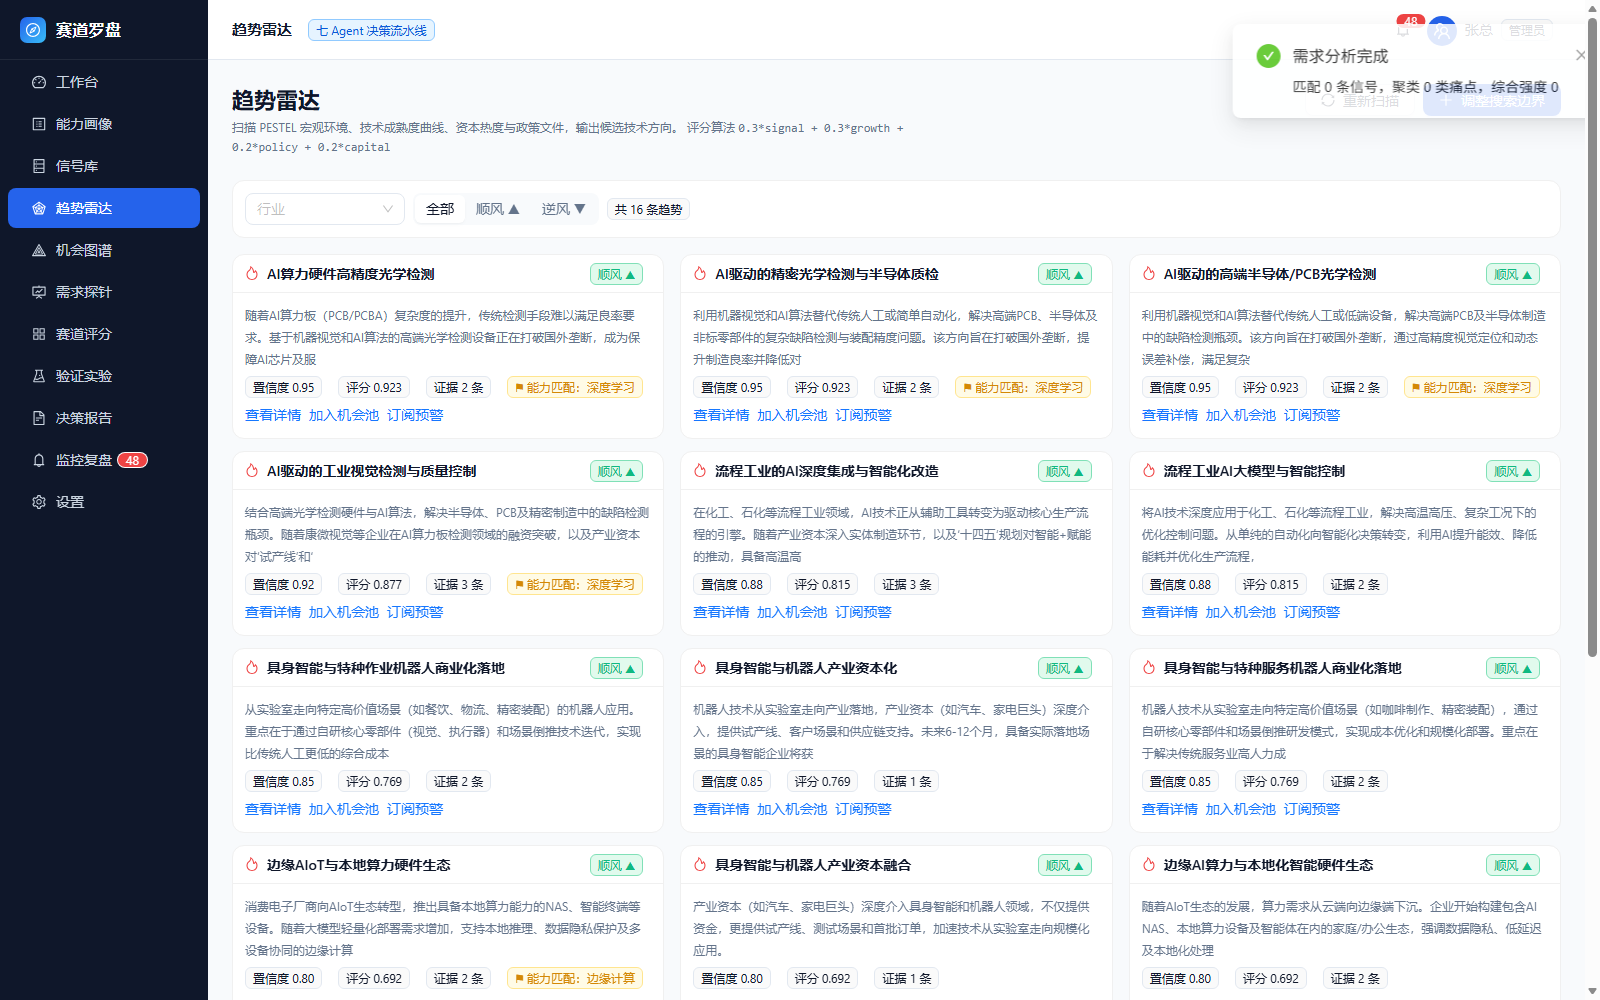
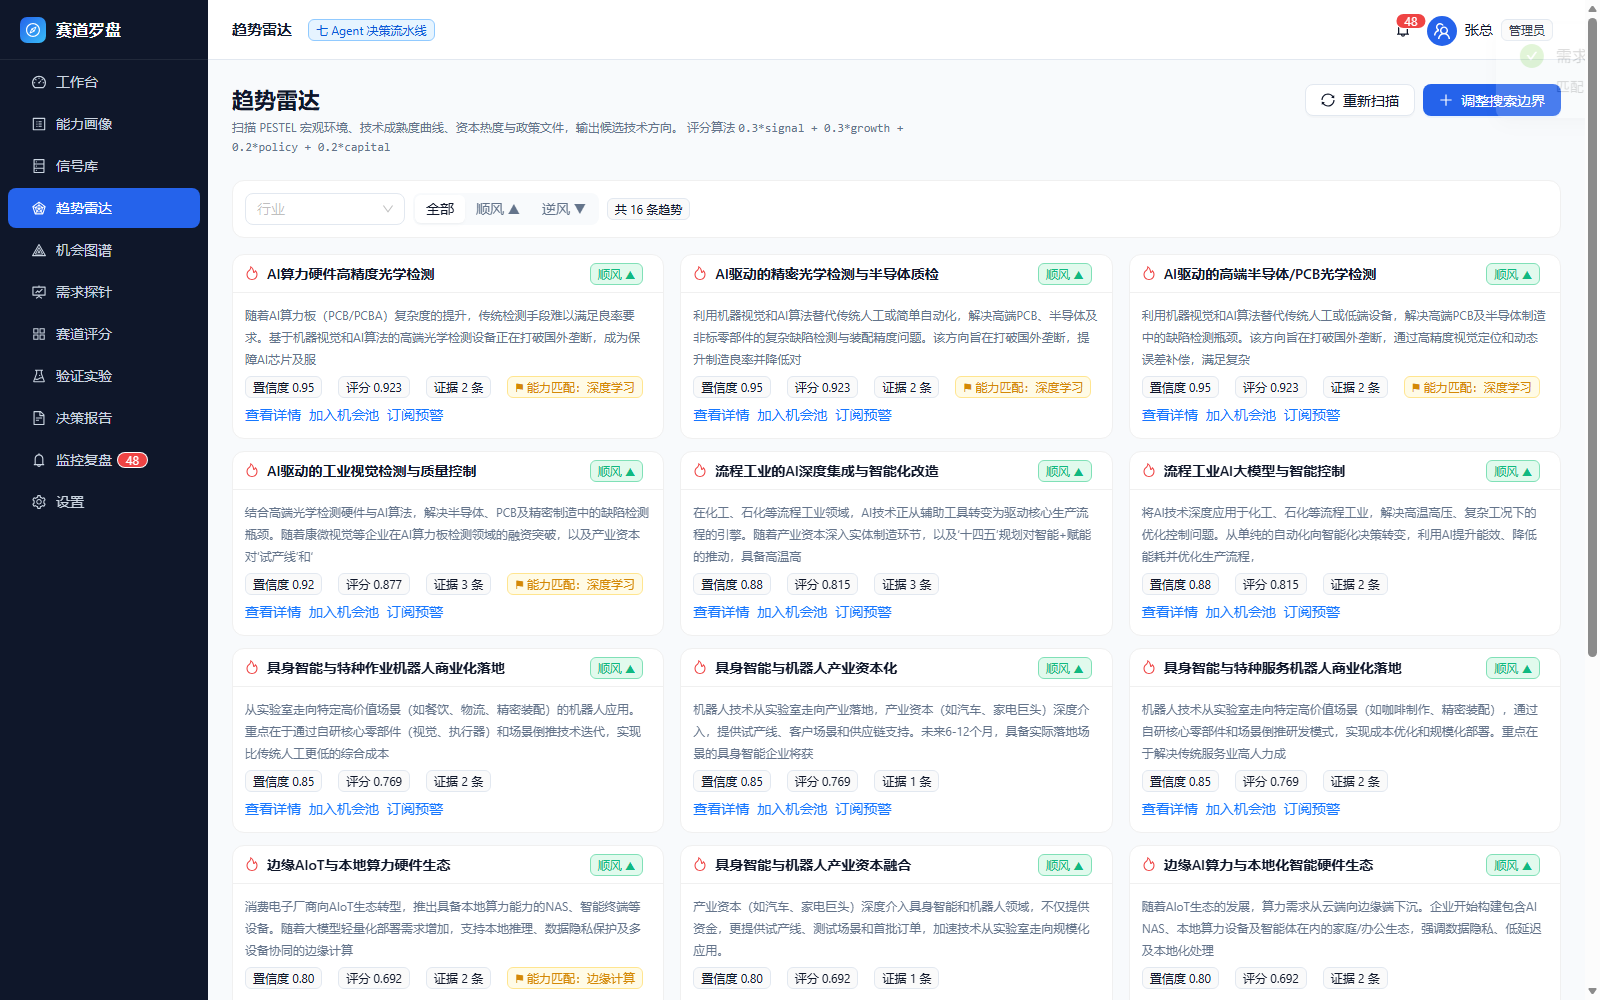
fix(reports): 决策报告能在线看全文（原先每份历史报告都显示「无正文内容」）
用户问「决策报告不能在线看吗？」—— 是缺陷。

根因：GET /reports（列表）只回元信息，**不含 content**；而前端点「查看」是
setPreview(列表项) 直接拿去渲染 ⇒ 除「刚生成的那份」（POST 响应带 sections_detail）外，
**所有历史报告都显示「该报告无正文内容」**。空态文案看起来就像功能缺失。
而 GET /reports/{id}（详情）本来就返回 9 段正文，客户端的 reportApi.detail() 也早就有 —— 只是没人调用。

改动
- Reports.tsx：
  · openReport()：有正文直接用（刚生成那份），否则拉 detail（带 loading）
  · 新增 openOnline()：新标签页打开排版版 HTML；没有导出产物就先导 HTML 再开
  · 新增 staticUrlOf()：导出接口返回的 file:///D:/... 一律转成 /static/reports/<文件名>
  · 列表动作重排：查看全文 / 在线打开 / 导出 ▾（HTML·Markdown·PPT·Word·JSON 收进下拉）
  · 预览区头部加「在线打开」；导 HTML 顺手新开标签页，PPT/Word 只提示文件已生成
- Demand.tsx：开跑即置 sourcesTouched —— 修掉一个真竞态：
  首屏「默认数据源自动补全」若在 /signals 返回前用户已点开始分析，
  补全随后把 5 类改成 8 类，刚出的结果立刻被判定「检索条件已改动」

验证
- tsc --noEmit / vite build 通过
- 详情接口实测 9 个章节（执行摘要 191 字 / 赛道定义与市场空间 505 字 / 需求验证 446 字）
- /static/reports/<文件名>.html → HTTP 200
- UI 冒烟 42 → **46/46**：点「查看全文」能读到正文（不再出现「该报告无正文内容」）、
  9 段结构命中 9/9、在线打开地址 200
- 顺带修两处断言竞态：等「存量计数」而不是等标签数量；章节判定改用模板固定章节名

文档
- docs/决策报告在线查看修复.md（新增）
- docs/产品使用手册.md P09 补「怎么看报告」三动作
- docs/遗留项台账.md「近期已解决」补一行

Changed region(s): [[0.7812, 0.0, 1.0, 0.124]]

diff --git a/trackcompass/frontend/src/pages/Reports.tsx b/trackcompass/frontend/src/pages/Reports.tsx
@@ -6,6 +6,7 @@ import {
   Col,
   Descriptions,
   Divider,
+  Dropdown,
   Empty,
   List,
   Row,
@@ -16,7 +17,13 @@ import {
   Typography,
   message,
 } from 'antd'
-import { DownloadOutlined, FileTextOutlined, PlusOutlined } from '@ant-design/icons'
+import {
+  DownloadOutlined,
+  DownOutlined,
+  FileTextOutlined,
+  LinkOutlined,
+  PlusOutlined,
+} from '@ant-design/icons'
 import ReactMarkdownLite from '../components/MarkdownLite'
 import PageHead from '../components/PageHead'
 import { EmptyState } from '../components/widgets'
@@ -24,6 +31,23 @@ import { opportunityApi, reportApi } from '../api/client'
 import { useAsync } from '../hooks/useAuth'
 import { runTask, useTask, useTaskVersion } from '../api/taskStore'
 import type { Report } from '../api/types'
+
+/**
+ * 把「导出产物」的路径/URI 换成**同端口可访问的静态地址**。
+ *
+ * 导出接口返回的 `url` 是服务端本地的 `file:///D:/...`（浏览器打不开），
+ * 真正的入口是后端挂载的 `/static/reports/<文件名>`（`main.py` 里 mount）。
+ */
+function staticUrlOf(fileUrlOrPath?: string | null): string | null {
+  if (!fileUrlOrPath) return null
+  const base = fileUrlOrPath.split(/[\\/]/).pop()
+  if (!base) return null
+  try {
+    return `/static/reports/${encodeURIComponent(decodeURIComponent(base))}`
+  } catch {
+    return `/static/reports/${encodeURIComponent(base)}`
+  }
+}
 
 /** P09 决策报告（《原型设计》§5.9） */
 /** 报告生成的响应类型 —— 从客户端推导，避免手写重复的下游契约 */
@@ -34,6 +58,8 @@ export default function Reports() {
   const [template, setTemplate] = useState('investment_memo')
   const [format, setFormat] = useState('markdown')
   const [preview, setPreview] = useState<Report | null>(null)
+  /** 取正文时的加载态（列表接口不带 content，点「查看」要再拉一次详情） */
+  const [opening, setOpening] = useState(false)
   /** 报告生成跑在应用级任务注册表里：文档生成要几秒，用户不必钉在页面上等 */
   const generateTask = useTask<GeneratedReport>('reports:generate')
   const generating = generateTask?.status === 'running'
@@ -80,6 +106,47 @@ export default function Reports() {
     // eslint-disable-next-line react-hooks/exhaustive-deps
   }, [generateTask?.finishedAt, generateTask?.status])
 
+  /**
+   * 点「查看」看正文。
+   *
+   * ⚠ 列表接口**不返回 `content`**（只有元信息），因此不能直接把列表项塞进预览区 ——
+   * 之前就是这么写的，结果每份历史报告都显示「该报告无正文内容」，
+   * 看起来像「不能在线看」。正文要靠详情接口 `GET /reports/{id}` 单独取。
+   * 刚生成的那份已经带正文（POST 响应里有 `sections_detail`），直接用，省一次请求。
+   */
+  const openReport = async (r: Report) => {
+    if (r.content?.sections?.length) {
+      setPreview(r)
+      return
+    }
+    setOpening(true)
+    try {
+      setPreview(await reportApi.detail(r.id))
+    } catch {
+      message.error('报告正文加载失败，请重试')
+    } finally {
+      setOpening(false)
+    }
+  }
+
+  /** 在线打开（浏览器新标签页看排版版）：有导出产物就直接开，没有就先导 HTML。 */
+  const openOnline = async (report: Report) => {
+    const existing = staticUrlOf(report.download_url)
+    if (existing) {
+      window.open(existing, '_blank')
+      return
+    }
+    const res = await reportApi.exportAs(report.id, 'html')
+    if (res.error) {
+      message.warning(res.error)
+      return
+    }
+    const url = staticUrlOf(res.path) ?? staticUrlOf(res.url)
+    if (url) window.open(url, '_blank')
+    else message.warning('导出成功，但未拿到可访问地址')
+    await refresh()
+  }
+
   const exportAs = async (report: Report, fmt: string) => {
     const res = await reportApi.exportAs(report.id, fmt)
     if (res.error) {
@@ -87,8 +154,12 @@ export default function Reports() {
       return
     }
     message.success(`已导出 ${res.format.toUpperCase()}`)
-    if (res.path) {
-      window.open(`/static/reports/${res.path.split(/[\\/]/).pop()}`, '_blank')
+    // 网页类格式顺手打开；PPT / Word 属于「下载后编辑」，不弹窗口
+    if (fmt === 'html') {
+      const url = staticUrlOf(res.path) ?? staticUrlOf(res.url)
+      if (url) window.open(url, '_blank')
+    } else if (res.path) {
+      message.info(`文件已生成：${res.path.split(/[\\/]/).pop()}`)
     }
     await refresh()
   }
@@ -154,15 +225,29 @@ export default function Reports() {
                 renderItem={(r) => (
                   <List.Item
                     actions={[
-                      <a key="v" onClick={() => setPreview(r)}>
-                        查看
+                      <a key="v" onClick={() => openReport(r)}>
+                        查看全文
                       </a>,
-                      <a key="p" onClick={() => exportAs(r, 'pptx')}>
-                        导出 PPT
+                      <a key="o" onClick={() => openOnline(r)}>
+                        在线打开
                       </a>,
-                      <a key="w" onClick={() => exportAs(r, 'docx')}>
-                        导出 Word
-                      </a>,
+                      <Dropdown
+                        key="e"
+                        menu={{
+                          items: [
+                            { key: 'html', label: '导出 HTML（可在线打开）' },
+                            { key: 'markdown', label: '导出 Markdown' },
+                            { key: 'pptx', label: '导出 PPT' },
+                            { key: 'docx', label: '导出 Word' },
+                            { key: 'json', label: '导出 JSON' },
+                          ],
+                          onClick: ({ key }) => exportAs(r, key),
+                        }}
+                      >
+                        <a>
+                          导出 <DownOutlined style={{ fontSize: 10 }} />
+                        </a>
+                      </Dropdown>,
                     ]}
                   >
                     <List.Item.Meta
@@ -209,7 +294,7 @@ export default function Reports() {
         </Col>
 
         <Col xs={24} lg={14}>
-          <Spin spinning={generating}>
+          <Spin spinning={generating || opening}>
             {preview ? (
               <Card
                 title={preview.title}
@@ -220,6 +305,15 @@ export default function Reports() {
                       {preview.version}
                     </Tag>
                     <Tag className="tc-tag-soft">{preview.evidence_count} 条证据</Tag>
+                    <Button
+                      size="small"
+                      type="primary"
+                      ghost
+                      icon={<LinkOutlined />}
+                      onClick={() => openOnline(preview)}
+                    >
+                      在线打开
+                    </Button>
                     <Button
                       size="small"
                       icon={<DownloadOutlined />}

diff --git a/trackcompass/frontend/src/pages/Demand.tsx b/trackcompass/frontend/src/pages/Demand.tsx
@@ -153,6 +153,10 @@ export default function Demand() {
    * 用户随时可以切走，跑完会弹全局通知，回到本页自动认领结果。
    */
   const run = async () => {
+    // 一旦开始跑，就当成「用户已确定数据源」：
+    // 否则「首屏自动补全默认数据源」可能在请求返回后**把条件改掉**，
+    // 让刚出的结果立刻变成「条件已改动」的过期结果。
+    sourcesTouched.current = true
     setProgress(10)
     await runTask<DemandProbe>(
       'demand:probe',

diff --git a/trackcompass/docs/决策报告在线查看修复.md b/trackcompass/docs/决策报告在线查看修复.md
@@ -1,0 +1,79 @@
+# 决策报告「不能在线看」修复
+
+> **触发**：用户 2026-09-16 ——「决策报告不能在线看吗？」
+> **结论**：是缺陷，已修。列表接口**不返回正文**，而前端把列表项直接塞进预览区
+> ⇒ 每份历史报告都显示「该报告无正文内容」。已改为点「查看全文」时单独拉详情，
+> 并补上「在线打开」（新标签页看排版版 HTML）。
+> **改动面**：前端 1 个文件 + 冒烟脚本；**零后端改动**（详情接口本来就有正文，只是没人调）。
+
+---
+
+## 一、现象与根因
+
+| 环节 | 实际情况 |
+| --- | --- |
+| 用户操作 | 在「报告列表」点**查看** |
+| 前端原实现 | `onClick={() => setPreview(r)}` —— 直接把**列表项**当预览数据 |
+| 列表接口 `GET /reports` | 只回元信息（title/version/format/evidence_count/page_count/created_at），**不含 `content`** |
+| 渲染分支 | `preview.content?.sections?.length ? 章节渲染 : <Empty description="该报告无正文内容" />` |
+| 结果 | 除「刚生成的那份」（POST 响应里带 `sections_detail`）之外，**所有历史报告都显示「该报告无正文内容」** |
+
+另外发现一个隐患：导出接口返回的 `url` 是服务端本地路径 `file:///D:/...`，
+**浏览器打不开**；真正的入口是后端挂载的 `/static/reports/<文件名>`
+（前端原先把 `path` 取 basename 拼静态地址 —— 这条其实是对的，但 `url` 字段没人用，
+容易误导后来者直接 `window.open(res.url)`）。
+
+---
+
+## 二、修法
+
+1. **「查看全文」补一次详情请求**：`GET /reports/{id}` 本来就返回 `content`（含 9 段 markdown 与引用），
+   前端 `reportApi.detail()` 也早就在客户端里 —— **只是没人调用**。
+   - 刚生成的那份已带正文 ⇒ 直接用，省一次请求；
+   - 历史报告 ⇒ 拉详情，期间标题区 loading。
+2. **新增「在线打开」**：新标签页打开排版版 HTML。
+   - 有导出产物 ⇒ 直接开 `/static/reports/<文件名>`；
+   - 没导出过 ⇒ 先导 HTML 再开（导出接口返回值里的 `file://` URI 一律经
+     `staticUrlOf()` 转成同端口静态地址）。
+3. **列表动作重排**：`查看全文` / `在线打开` / `导出 ▾`（HTML·Markdown·PPT·Word·JSON 收进下拉，
+   避免一行四个链接把列表撑乱）。
+4. **预览区头部**加「在线打开」（主按钮）+ 保留 导出 PPT / Word。
+5. **导出行为收敛**：导 HTML 顺手在新标签页打开；PPT/Word 属于「下载后编辑」，只提示文件已生成。
+
+---
+
+## 三、验证（实测）
+
+| 项 | 结果 |
+| --- | --- |
+| 详情接口 | `GET /reports/{id}` → **9 个章节**，含 markdown 与引用（实测：执行摘要 191 字 / 赛道定义与市场空间 505 字 / 需求验证 446 字） |
+| 静态产物 | `/static/reports/<文件名>.html` → **HTTP 200** |
+| UI（真实 Chromium） | 见下 |
+
+```
+✅ 报告列表已渲染（10 份报告）
+✅ ★ 点「查看全文」能在线看到报告正文（正文含「执行摘要」＝ true，且不再出现「该报告无正文内容」）
+✅ 报告按 9 段结构渲染（命中 9/9）
+✅ ★ 「在线打开」的静态地址可访问（HTTP 200）
+```
+
+UI 冒烟整体 **46/46**（在原有 42 项上新增 4 项报告场景）。
+截图留档：`docs/决策报告-在线查看-验证.png`。
+
+### 顺带修掉的一个真竞态（冒烟暴露）
+
+首屏「默认数据源自动补全」与用户点击之间会打架：若用户在 `/signals` 返回**之前**点了「开始分析」，
+补全逻辑随后把数据源从 5 类改成 8 类 ⇒ 刚出的结果立刻被判定为「检索条件已改动」。
+现在**一开跑就视为用户已确定数据源**，补全逻辑不再改动条件。
+（这条是冒烟偶发假失败牵出来的 —— 断言不稳有时真是产品问题，值得追。）
+
+---
+
+## 四、改动清单
+
+| 文件 | 改动 |
+| --- | --- |
+| `frontend/src/pages/Reports.tsx` | 新增 `staticUrlOf()`；`openReport()`（补详情请求）、`openOnline()`；列表动作改 `查看全文 / 在线打开 / 导出 ▾`；预览区加「在线打开」；导出后按格式决定是否新开标签页 |
+| `frontend/src/pages/Demand.tsx` | 开跑即置 `sourcesTouched`（防默认补全改动已开跑的条件） |
+| `scripts/ui_smoke_persist.mjs` | 新增报告场景 4 项；修掉两处断言竞态（等「存量计数」而不是等标签数量；章节判定改用模板固定章节名） |
+| `docs/产品使用手册.md` | P09 补「怎么看报告」三动作说明 |

diff --git a/.workbuddy/memory/2026-09-16.md b/.workbuddy/memory/2026-09-16.md
@@ -495,3 +495,42 @@ Step 当前步每次弹回第 1 步，一并修掉。
 
 **产出**：报告 §1.5 第三例；台账「已解决」补一行 + L-16 加「先问状态存在哪」的排查口径；
 手册 P07 补说明；截图 `docs/赛道评分-会话态保持-验证.png`
+
+---
+
+## 2026-09-16 17:00 ｜ 决策报告「不能在线看」修复
+
+**用户需求**：「决策报告不能在线看吗？」
+
+### 根因（列表接口不带正文）
+
+- `GET /reports`（列表）只回元信息，**不含 `content`**；而前端点「查看」是
+  `setPreview(r)` 直接拿**列表项**渲染 ⇒ 除「刚生成的那份」（POST 响应带 `sections_detail`）外，
+  **所有历史报告都显示「该报告无正文内容」** —— 空态文案看起来就像功能缺失
+- `GET /reports/{id}`（详情）**本来就返回 9 段正文**，客户端的 `reportApi.detail()` 也早就有，
+  **只是没人调用**
+- 另一个隐患：导出接口返回的 `url` 是 `file:///D:/...`（浏览器打不开），
+  真正的入口是后端 mount 的 `/static/reports/<文件名>`（实测 200）
+
+### 修法（前端 1 个文件，零后端改动）
+
+- 「查看全文」：有正文直接用；没有就拉 detail（带 loading）
+- 新增「在线打开」：有导出产物直接开静态地址；没有就先导 HTML 再开
+- 列表动作重排为 `查看全文 / 在线打开 / 导出 ▾`（HTML·Markdown·PPT·Word·JSON 收进下拉）
+- 导出行为收敛：HTML 顺手新开标签页，PPT/Word 只提示文件已生成
+
+### 顺带修掉一个真竞态（冒烟牵出来的）
+
+首屏「默认数据源自动补全」与用户点击打架：若在 `/signals` 返回**前**就点了「开始分析」，
+补全逻辑随后把 5 类改成 8 类 ⇒ 刚出的结果立刻被判定「检索条件已改动」。
+现在**一开跑即视为用户已确定数据源**。
+⇒ 教训：**冒烟偶发假失败，有时真是产品问题**，值得追下去而不是简单重跑。
+
+### 验证
+
+UI 冒烟 42 → **46/46**。新增：查看全文能读到正文（不再出现「该报告无正文内容」）、
+9 段结构命中 9/9、在线打开的静态地址 HTTP 200。截图 `docs/决策报告-在线查看-验证.png`。
+另修两处断言竞态：等「存量计数」而不是等标签数量；章节判定改用模板固定章节名。
+
+**新增约定 44**（列表接口只回元信息 → 详情必须走 detail）与 **45**（对外文件地址不能是 file://）。
+**产出**：`docs/决策报告在线查看修复.md`；手册 P09 补「怎么看报告」。

diff --git a/.workbuddy/memory/MEMORY.md b/.workbuddy/memory/MEMORY.md
@@ -353,6 +353,14 @@
 43. **凡「结构性不可用」的功能，先问「是数据不够还是类型不相交」**（2026-09-16 需求探针恒 0）。
     实测手法：前端写死的候选集合 ∩ 库里实际存在的取值集合 = ∅ 时，功能**永远**不会出数据，
     且表象是「空白」，极易被当成前端渲染 bug 去修。判据一句话：**把两侧的取值集合都打出来求交集**。
+44. 🌟 **「列表接口只回元信息」是高频坑**：拿列表项去渲染详情必然空，
+    而空态文案往往写成「无内容」，看起来像功能缺失（实测：决策报告列表 → 每份历史报告都显示
+    「该报告无正文内容」，用户以为「不能在线看」）。
+    规矩：**有 detail 接口的，打开详情必须走 detail**；列表项只服务列表。
+    发现手法：对比「列表接口返回字段」与「详情接口返回字段」——差一个 `content` 就是它。
+45. **对外返回的文件地址不能是服务端本地路径**：导出接口给的是 `file:///D:/...`，
+    浏览器打不开。必须转成对外可访问的 URL（本项目 = 后端 mount 的 `/static/reports/<文件名>`）。
+    反过来也要小心：前端别直接 `window.open(res.url)`，那个 url 是给服务端看的。
 
 ---
 
@@ -370,9 +378,12 @@ RAGFlow接入评估 · RAG关键词抽取开关评估 · 趋势雷达·能力画
 趋势雷达证据链修复与数据清理报告 · 需求探针与图谱与能力匹配修复报告 · 机会池重复卡片修复报告 ·
 前端列表key冲突修复报告 · 趋势雷达Bug复查报告 · 趋势标签化重构报告 · 信号采集器实现说明 ·
 公共数据层与E2E租户隔离 · E2E写入数据清单 · 趋势能力画像链路修复报告 ·
-**前端会话态保持修复报告** · **遗留项台账（唯一出处）**
+**前端会话态保持修复报告** · **跨页并行与后台任务报告** · **决策报告在线查看修复** ·
+**遗留项台账（唯一出处）**
 
 可复用脚本（`trackcompass/scripts/`）：`check_api_contract.py` · `e2e_smoke.py` ·
 **`ui_smoke_persist.mjs`** · `check_llm_connection.py` · `check_ragflow.py` · `probe_topology.py` ·
 `probe_two_order.sh` · `diag_ollama_knobs.sh` · `ollama-override.conf` · `compare_ragflow_keyword.py` ·
 `collect_signals.py` · `analyze_trend_similarity.py`
+
+

diff --git a/trackcompass/docs/遗留项台账.md b/trackcompass/docs/遗留项台账.md
@@ -259,4 +259,5 @@
 | — | 「已载入某公司」提示重复弹出（进页面时重复拉取） | 2026-09-16 | 恢复判断改为**等首屏画像拉取落定**再做；恢复路径改静默；加 `switchingTo` 并发守卫 |
 | — | **长操作把用户钉在页面上等**（切页就丢结果、无跨页反馈） | 2026-09-16 | 新增应用级任务注册表 `api/taskStore.ts`：9 页 12 个手动操作改为后台任务 —— 切页不中断 + 全局通知 + 回来认领 + 顶栏「N 个任务后台运行中」+ 列表随任务完成自动刷新。见 `docs/跨页并行与后台任务报告.md`，UI 冒烟 32/32 |
 | — | 工作台的「开始趋势扫描」按钮无 loading（可连点重复触发） | 2026-09-16 | 接入任务层后带 `loading`，并与趋势雷达/能力画像共用同一任务键，跨页防并发 |
+| — | **决策报告「不能在线看」**（每份历史报告都显示「该报告无正文内容」） | 2026-09-16 | 列表接口不返回 `content`，前端却拿列表项渲染详情 ⇒ 改为点「查看全文」时拉 `GET /reports/{id}`；新增「在线打开」（`file://` URI 一律转 `/static/reports/…`）；动作改 `查看全文 / 在线打开 / 导出 ▾`。见 `docs/决策报告在线查看修复.md`，UI 冒烟 46/46 |
 | — | **赛道评分切页留不住**（选中的机会卡片 / 权重草稿 / 权重预览） | 2026-09-16 | 选中项原本只存在 **URL query** 里，从菜单进入时 query 丢失 ⇒ 回退到「上次选的那张」（`scorecard:opportunity`，并校验存在性）；权重草稿与预览按机会卡片存；弹窗开合改独立 state（草稿恢复≠弹窗自动弹）。见 `docs/前端会话态保持修复报告.md` §1.5，UI 冒烟 42/42 |

diff --git a/trackcompass/docs/产品使用手册.md b/trackcompass/docs/产品使用手册.md
@@ -261,6 +261,17 @@ cd D:/01code/business/trackcompass/backend
 
 报告固定 9 段结构：执行摘要 → 赛道定义与市场空间 → 需求验证 → 技术评估 → 竞争格局 → 商业模式 → 风险与应对 → 里程碑与资源需求 → 证据链附录。
 
+**怎么看报告**（左侧「报告列表」每条有三个动作）：
+
+| 动作 | 说明 |
+| --- | --- |
+| **查看全文** | 在右侧内嵌阅读，按 9 段渲染（表格、要点、证据编号都在）——**历史报告同样能看** |
+| **在线打开** | 新标签页打开排版版（HTML）。若该报告还没导出过 HTML，会先自动导出一份再打开 |
+| **导出 ▾** | 导出 HTML / Markdown / PPT / Word / JSON；导 HTML 会顺手在新标签页打开 |
+
+> 报告正文存在库里（`content.sections`），列表接口只回元信息 ——
+> 所以「查看全文」是**单独拉一次正文**，点开时有短暂 loading 属正常。
+
 右侧预览区支持**导出 PPT / Word**（需后端安装 `python-pptx` / `python-docx`，未安装时自动降级为 Markdown）。
 
 ### P10 监控复盘
